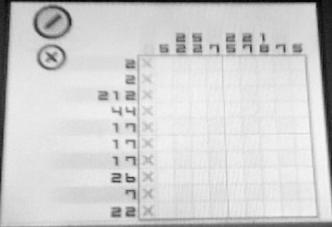
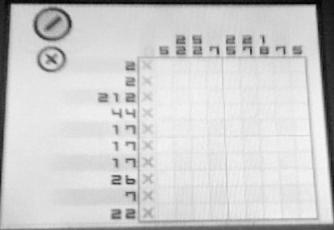
New approach for GetPicture

diff --git a/GetPicture.py b/GetPicture.py
@@ -15,11 +15,162 @@ def picture(pic_name, test_pic):
     image = Image.open(test_pic)
     
     # flip along vertical axis
-    #image = image.transpose(Image.FLIP_LEFT_RIGHT)
+    image = image.transpose(Image.FLIP_LEFT_RIGHT)
     
     # preprocess: trim to game screen
     image = image.convert('L')
-    pixels = list(image.getdata())
+    pixels = image.load();
+    
+    width, height = image.size
+    
+    center = (width/2, height/2)
+    
+    # center intensity should be in DS screen and therefore above some threshold
+    cent_x = center[0]
+    cent_y = center[1]
+    screen_intensity = (pixels[center] + pixels[cent_x-1, cent_y-1] + pixels[cent_x-1, cent_y] + pixels[cent_x-1, cent_y+1] + pixels[cent_x, cent_y-1] + pixels[cent_x, cent_y+1] + pixels[cent_x+1, cent_y-1] + pixels[cent_x+1, cent_y] + pixels[cent_x+1, cent_y+1]) / 9.
+    X_INC = width / 100
+    Y_INC = height / 100
+    THRES_DIFF = 40
+    NEIGH_SIZE = 5
+    
+    # get max x of screen border
+    prev_intensity = screen_intensity
+    potential_border = width
+    for x in range(center[0] + X_INC, width, X_INC):
+        # get average of neighborhood
+        average_intensity = 0
+        num_pixels = 0
+                
+        for x_offset in range(-1 * NEIGH_SIZE, 1 * NEIGH_SIZE):
+            neigh_x = x + x_offset
+            # if within image, factor into average
+            if neigh_x < 0 or neigh_x >= width:
+                continue
+            for y_offset in range(-1 * NEIGH_SIZE, 1 * NEIGH_SIZE):
+                neigh_y = cent_y + y_offset
+                # if within image, factor into average
+                if neigh_y < 0 or neigh_y >= height:
+                    continue
+                            
+                average_intensity += pixels[neigh_x, neigh_y]
+                num_pixels += 1
+                
+        average_intensity = average_intensity / num_pixels
+        
+        if abs(average_intensity - prev_intensity) > THRES_DIFF:
+            if potential_border < width:
+                break
+            potential_border = x
+        else:
+            potential_border = width
+            prev_intensity = average_intensity
+    max_x = potential_border
+    print max_x
+    
+    # get min x of screen border
+    prev_intensity = screen_intensity
+    potential_border = 0
+    for x in range(center[0] - X_INC, 0, -1 * X_INC):
+        # get average of neighborhood
+        average_intensity = 0
+        num_pixels = 0
+                
+        for x_offset in range(-1 * NEIGH_SIZE, 1 * NEIGH_SIZE):
+            neigh_x = x + x_offset
+            # if within image, factor into average
+            if neigh_x < 0 or neigh_x >= width:
+                continue
+            for y_offset in range(-1 * NEIGH_SIZE, 1 * NEIGH_SIZE):
+                neigh_y = cent_y + y_offset
+                # if within image, factor into average
+                if neigh_y < 0 or neigh_y >= height:
+                    continue
+                            
+                average_intensity += pixels[neigh_x, neigh_y]
+                num_pixels += 1
+                
+        average_intensity = average_intensity / num_pixels
+        
+        if abs(average_intensity - prev_intensity) > THRES_DIFF:
+            if potential_border > 0:
+                break
+            potential_border = x
+        else:
+            potential_border = 0
+            prev_intensity = average_intensity
+    min_x = potential_border
+    print min_x
+    
+    # get max y of screen border
+    prev_intensity = screen_intensity
+    potential_border = height
+    for y in range(center[1] + Y_INC, height, Y_INC):
+        # get average of neighborhood
+        average_intensity = 0
+        num_pixels = 0
+                
+        for x_offset in range(-1 * NEIGH_SIZE, 1 * NEIGH_SIZE):
+            neigh_x = cent_x + x_offset
+            # if within image, factor into average
+            if neigh_x < 0 or neigh_x >= width:
+                continue
+            for y_offset in range(-1 * NEIGH_SIZE, 1 * NEIGH_SIZE):
+                neigh_y = y + y_offset
+                # if within image, factor into average
+                if neigh_y < 0 or neigh_y >= height:
+                    continue
+                            
+                average_intensity += pixels[neigh_x, neigh_y]
+                num_pixels += 1
+                
+        average_intensity = average_intensity / num_pixels
+        
+        if abs(average_intensity - prev_intensity) > THRES_DIFF:
+            if potential_border < height:
+                break
+            potential_border = y
+        else:
+            potential_border = height
+            prev_intensity = average_intensity
+    max_y = potential_border
+    print max_y
+    
+    # get min y of screen border
+    prev_intensity = screen_intensity
+    potential_border = 0
+    for y in range(center[1] - Y_INC, 0, -1 * Y_INC):
+        # get average of neighborhood
+        average_intensity = 0
+        num_pixels = 0
+                
+        for x_offset in range(-1 * NEIGH_SIZE, 1 * NEIGH_SIZE):
+            neigh_x = cent_x + x_offset
+            # if within image, factor into average
+            if neigh_x < 0 or neigh_x >= width:
+                continue
+            for y_offset in range(-1 * NEIGH_SIZE, 1 * NEIGH_SIZE):
+                neigh_y = y + y_offset
+                # if within image, factor into average
+                if neigh_y < 0 or neigh_y >= height:
+                    continue
+                            
+                average_intensity += pixels[neigh_x, neigh_y]
+                num_pixels += 1
+                
+        average_intensity = average_intensity / num_pixels
+        
+        if abs(average_intensity - prev_intensity) > THRES_DIFF:
+            if potential_border > 0:
+                break
+            potential_border = y
+        else:
+            potential_border = 0
+            prev_intensity = average_intensity
+    min_y = potential_border
+    print min_y
+    
+    """pixels = list(image.getdata())
     
     width, height = image.size
     (both, hor_filt, vert_filt) = prewitt.prewitt(pixels, width, height)
@@ -113,17 +264,17 @@ def picture(pic_name, test_pic):
     min_x = min(x1, x2)
     max_x = max(x1, x2)
     min_y = min(y1, y2)
-    max_y = max(y1, y2)
+    max_y = max(y1, y2)"""
     
     if DRAW:
-        draw = ImageDraw.Draw(both)
-        draw.line((x1, 0, x1, height), fill=128)
-        draw.line((x2, 0, x2, height), fill=128)
-        draw.line((0, y1, width, y1), fill=128)
-        draw.line((0, y2, width, y2), fill=128)
+        draw = ImageDraw.Draw(image)
+        draw.line((min_x, 0, min_x, height), fill=128)
+        draw.line((max_x, 0, max_x, height), fill=128)
+        draw.line((0, min_y, width, min_y), fill=128)
+        draw.line((0, max_y, width, max_y), fill=128)
         del draw
-    ImageShow.show(both, 'with points')
-    both.save('./images/intermediate/' + pic_name + '_getpicture_precrop.jpg')
+    ImageShow.show(image, 'with points')
+    image.save('./images/intermediate/' + pic_name + '_getpicture_precrop.jpg')
     
     # crop image
     BUFFER = 5
